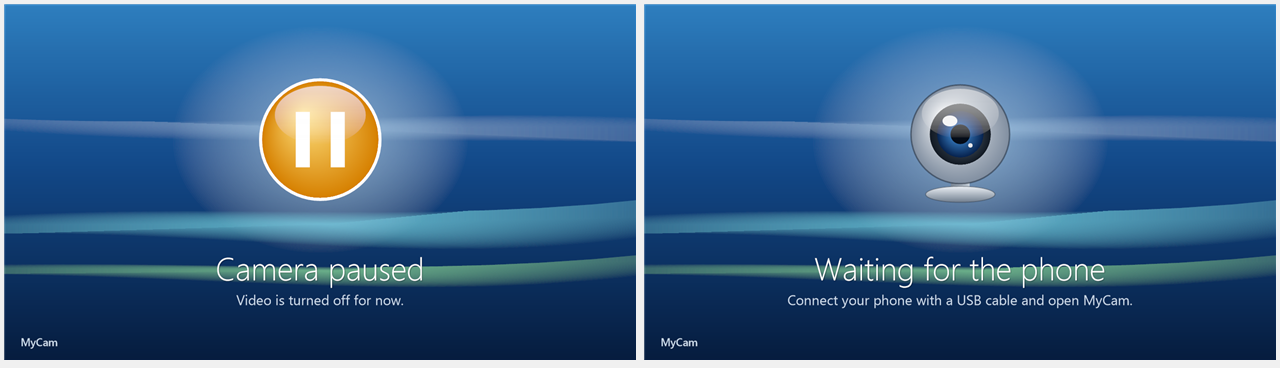
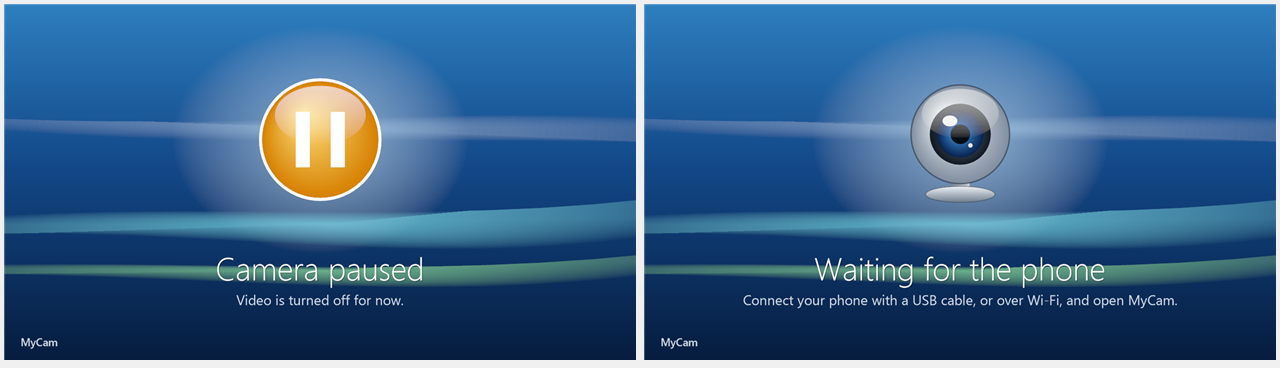
Wireless: docs for the security handshake, Wi-Fi in the waiting picture, test results
PROTOCOL.md 'Wireless security' now specifies the handshake, key derivation and records as built;
the waiting picture says USB cable or Wi-Fi; IMPROVEMENTS 11 records the live tests (pairing, encrypted
stream, paired reconnect without prompt, re-pairing after the PC forgot, refusal back-off).

Changed region(s): [[0.5625, 0.8071, 0.9375, 0.837]]

diff --git a/protocol/PROTOCOL.md b/protocol/PROTOCOL.md
@@ -114,15 +114,66 @@ The phone answers (unicast, to the sender's address and port) only while "Use ov
 remembers the PC name per IP address to show it when that PC connects. A phone that hasn't answered for 6 s
 is forgotten.
 
-**Session (TCP, port 47800).** The PC connects and sends `HELLO` (every 2 s, as over USB). The phone asks its
-user "Allow <pc name> to use this camera?" and doesn't read or answer anything until then:
-- Allowed: the phone answers `HELLO` and the session continues exactly as over USB.
-- Refused, or no answer within 60 s: the phone closes the connection. A PC that got no `HELLO` waits 2 minutes
-  before connecting to that phone again; after a working session drops, it retries after 2 s.
+**Session (TCP, port 47800).** The PC connects and runs the handshake below. After it, both directions
+carry the usual packets and commands (the same bytes as over USB) inside encrypted records, and the session
+continues exactly as over USB (`HELLO` every 2 s until answered, and so on).
 
 One PC at a time. A USB connection always wins: the phone closes a Wi-Fi session when a cable link opens,
 and the PC ends a Wi-Fi session when a phone is plugged in so the cable can take over.
 
-**Phase 1 limits (to be fixed before this leaves beta):** no pairing and no encryption. Approval is per
-connection (remembered by IP until the phone's MyCam service stops), and the video isn't encrypted on the
-network. Phase 2 adds one-time pairing and TLS (IMPROVEMENTS.md 11).
+**Retries.** The phone refused, or nobody answered within 60 s: the PC waits 2 minutes before trying that
+phone again. A working session dropped: 2 s. The phone couldn't be reached: 10 s.
+
+## Wireless security (1.4)
+
+Every Wi-Fi session is authenticated and encrypted. A new PC must be **paired** once: both screens show
+the same 6-digit code, and the user allows it on the phone. A paired PC connects without asking.
+
+Primitives: P-256 ECDH (public keys as `04 | X | Y`, the shared secret is the X coordinate, big-endian),
+SHA-256, HMAC-SHA256, HKDF-SHA256 (RFC 5869), AES-256-GCM with a 16-byte tag. `protocol/golden.txt` has
+vectors for all of them (`wifi.*`, generated with the JDK), checked by both test suites.
+
+**Handshake messages** (before encryption): `u16 length (type + body) | u8 type | body`, big-endian.
+
+| Type | Name | Direction | Body |
+|---|---|---|---|
+| 1 | CLIENT_HELLO | PC → phone | `"MCHS"`, u8 version (1), u8 flags (bit 0: force pairing), PC id (16), ephemeral public key (65), Npc (16), u8 name length, PC name (UTF-8) |
+| 2 | SERVER_HELLO | phone → PC | phone id (16), ephemeral public key (65), Nph (16), u8 mode (0 paired, 1 pairing), [pairing: commitment (32)], u8 name length, phone name |
+| 3 | NONCE_A | PC → phone | Na (16), pairing only |
+| 4 | NONCE_B | phone → PC | Nb (16), pairing only |
+| 5 | PC_FINISHED | PC → phone | HMAC (32) |
+| 6 | PHONE_FINISHED | phone → PC | HMAC (32) |
+| 7 | REJECT | either | u8 reason (1 refused or timed out, 2 proof failed, 3 busy) |
+
+Ids are random 16-byte values each side makes once. `z` = ECDH of the two ephemeral keys. The transcript `H`
+is SHA-256 of messages 1 to 4 exactly as sent (length, type and body).
+
+**Paired** (the phone knows a pairing key `K` for this PC id, and the PC didn't set "force pairing"):
+SERVER_HELLO has mode 0, then both sides derive the session keys and exchange FINISHED. If the PC doesn't
+have `K` for that phone any more, it sends REJECT and reconnects with "force pairing". If the phone's proof
+check fails (it re-paired or forgot this PC), the PC forgets its key and pairs again.
+
+**Pairing** (numeric comparison, as in Bluetooth): the phone picks Nb and sends the commitment
+`SHA-256("MyCam commit v1" | Nb | phonePub | pcPub)` in SERVER_HELLO, before it sees Na. The PC sends Na, the
+phone reveals Nb, and the PC checks the commitment. Both sides show
+`code = (first 4 bytes of SHA-256(pcPub | phonePub | Na | Nb), as u32) mod 1,000,000` (6 digits). The
+commitment means someone in between can't choose keys that make the codes match. The PC sends PC_FINISHED,
+the phone checks it and asks the user. Only after "Allow" does the phone store `K` and send PHONE_FINISHED.
+The PC then stores `K` too: the phone in its private app storage, the PC protected with DPAPI under
+`HKCU\Software\MyCam\PairedPhones`.
+
+    K (pairing) = HKDF(ikm = z, salt = Na | Nb, info = "MyCam pair v1", 32)
+    session     = HKDF(ikm = z | K, salt = Npc | Nph, info = "MyCam session v1", 96)
+                = PC-to-phone key (32) | phone-to-PC key (32) | finished key kFin (32)
+    PC_FINISHED    = HMAC(kFin, "PC" | H)
+    PHONE_FINISHED = HMAC(kFin, "PH" | H)
+
+Each session uses fresh ephemeral keys, so a leaked pairing key doesn't reveal earlier sessions' video.
+
+**Records** (after both FINISHED messages): `u32 BE ciphertext length | AES-256-GCM ciphertext | tag`.
+The nonce is `u32 direction (0 PC to phone, 1 phone to PC) | u64 counter`, big-endian. The counter starts at 0
+in each direction and goes up by one per record. A record that fails its tag check (tampered, replayed,
+reordered or the wrong key) ends the session. The phone sends one record per packet; the maximum record is 16 MiB.
+
+**Forgetting:** "Forget paired PCs" on the phone and "Forget Wi-Fi phones" on the PC delete the keys; the
+next connection pairs again with a new code.

diff --git a/IMPROVEMENTS.md b/IMPROVEMENTS.md
@@ -307,7 +307,7 @@ cost and risk for this project.
 
 ---
 
-## 11. Wireless option (L): 🟡 phase 1 built on branch `wireless` (1.4.0-beta1), needs a test
+## 11. Wireless option (L): 🟡 phases 1 and 2 built on branch `wireless` (1.4.0-beta3); a few tests left before merging
 
 MyCam is wired-only by design (plug and play, no setup, no lag spikes, phone charges while streaming).
 A wireless mode would be an **optional** second way to connect, with the cable staying the default.
@@ -335,14 +335,14 @@ A wireless mode would be an **optional** second way to connect, with the cable s
 | Starting | App opens itself when plugged in | Open MyCam on the phone and turn on Wireless |
 | Windows | Nothing extra | Nothing extra: the PC only connects out, so there is no firewall prompt |
 
-**Phase 1 (built; first test passed 2026-10-10, CMF Phone 1 / Android 16):** found in ~1 s, Allow on the phone, 1080p30 live through the virtual camera, phone-side delay ~106 ms, PC decode ~8 ms. Still to test: refusing, cable takeover, 60/120 fps and 4K over Wi-Fi, a busy network. To fix: the "Waiting for the phone" picture still says "Connect your phone with a USB cable".
+**Phase 1 (tested 2026-10-10, CMF Phone 1 / Android 16):** found in ~1 s, 1080p30 live through the virtual camera, phone-side delay ~106 ms, PC decode ~8 ms. The "Waiting for the phone" picture now mentions Wi-Fi.
 
 Design: UDP discovery + TCP on the phone ("Use over Wi-Fi" switch) and PC
 ("Find phones on Wi-Fi"); the phone asks "Allow <PC>?" for every new connection (in the app and as a
 notification); the cable always wins; Wi-Fi lock and a small send buffer on the phone keep delay low; the PC
 side shares one single-threaded session loop with USB (no new threads). No pairing or encryption yet.
 
-**Phase 2 (before merging to main):** one-time pairing and TLS, as below.
+**Phase 2 (built and tested 2026-10-10):** one-time pairing with a 6-digit code compared on both screens (with a commitment, as in Bluetooth numeric comparison), then P-256 ECDH + HKDF + AES-256-GCM for every session; paired PCs connect without asking. Details in PROTOCOL.md "Wireless security". Tested live: pairing (codes matched), encrypted 1080p stream (0 decode errors), paired reconnect in 40 ms with no prompt, PC forgot the phone -> paired again with a new code, "Don't allow" -> no retry for 2 minutes. Interop proven with JDK-generated vectors in both test suites. Still to test before merging: cable takeover, 60/120 fps and 4K over Wi-Fi, a busy network.
 
 **Work items**
 - [ ] Phone: TCP server/client mode in the streaming service, mDNS advertising, pairing screen, battery warning
